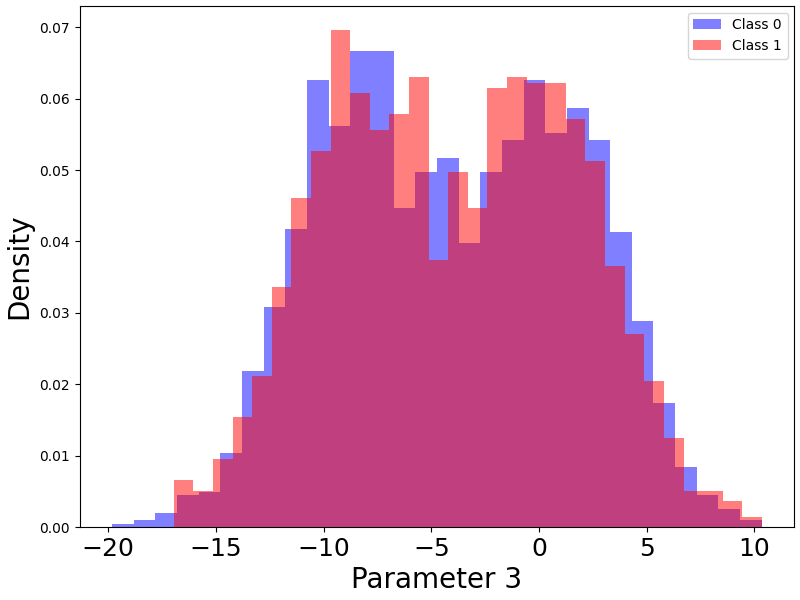
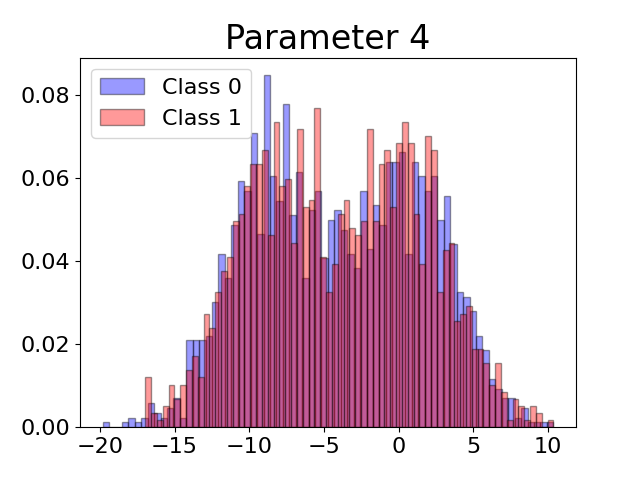
plots added, heatmap foreach class missing

diff --git a/Project/src/plottering.py b/Project/src/plottering.py
@@ -2,7 +2,6 @@ import numpy as np
 import input
 import seaborn as sns
 import matplotlib
-matplotlib.use('TkAgg')
 import matplotlib.pyplot as plt
 import matplotlib.gridspec as gridspec
 from model import PCA, LDA
@@ -28,20 +27,17 @@ def plot_simple():
         x_class0 = [x for x, c in zip(x_values, classes) if c == 0]
         x_class1 = [x for x, c in zip(x_values, classes) if c == 1]
 
-        plt.hist(x_class0, bins=50, color='blue', alpha=0.5, density=True, label='Class 0')
-        plt.hist(x_class1, bins=50, color='red', alpha=0.5, density=True, label='Class 1')
-
+        plt.hist(x_class0, bins=70, color='blue', alpha=0.4, density=True, label='Class 0', linewidth=1.0, edgecolor='black')
+        plt.hist(x_class1, bins=70, color='red', alpha=0.4, density=True, label='Class 1', linewidth=1.0, edgecolor='black')
         plt.legend(fontsize=16)
 
         plt.tick_params(axis='x', labelsize=16)
         plt.tick_params(axis='y', labelsize=16)
         plt.title(labels[i], fontsize=24)
     
-        plt.savefig('plot_{}.png'.format(i))
+        plt.savefig('../Plots/plot_{}.png'.format(i))
         plt.close()
 
-    
-    
 def plot_multiple():
     data = []
 
@@ -105,8 +101,23 @@ def plot_correlations(D, cmap="Greys",dimensions=10):
             pearson_coeff = compute_pearson_coeff(X, Y)
             corr[x][y] = pearson_coeff
     sns.set()
-    sns.heatmap(np.abs(corr), linewidth=0.2, cmap=cmap, square=True, cbar=False)
-    plt.show()
+    sns.heatmap(np.abs(corr), linewidth=0.2, cmap=cmap, square=True, cbar=True)
+    plt.savefig("../Plots/correlations")
+
+def plot_Scatter(DTR, LTR):
+    idx = 0
+    for i in range(DTR.shape[0]):
+        for j in range(DTR.shape[0]):
+            if i != j:
+                plt.figure()
+                plt.scatter(DTR[i, LTR == 0], DTR[j, LTR == 0], label="0")
+                plt.scatter(DTR[i, LTR == 1], DTR[j, LTR == 1], label="1")
+                plt.legend()
+                plt.xlabel("Feature " + str(i))
+                plt.ylabel("Feature " + str(j))
+                plt.savefig("../Plots/scatter_" + str(idx))
+                idx += 1
+                plt.close()
 
 def plot_PCA(D,L,m,s=16):
 
@@ -132,13 +143,14 @@ def plot_LDA(D,L):
     D_class0 = D[:, L == 0]
 
     plt.figure()
-    plt.hist(D_class1[0, :], bins=100, alpha=1, label='class 1')
-    plt.hist(D_class0[0, :], bins=100, alpha=0.5, label='class 0')
+    plt.hist(D_class1[0, :], bins=70, alpha=1, label='class 1', linewidth=1.0, edgecolor='black')
+    plt.hist(D_class0[0, :], bins=70, alpha=0.5, label='class 0', linewidth=1.0, edgecolor='black')
     plt.tick_params(axis='x', labelsize=16)
     plt.tick_params(axis='y', labelsize=16)
     plt.legend(fontsize=16)
-    plt.savefig('LDA.png')
+    plt.savefig('../Plots/LDA.png')
     plt.show()
+    plt.close()
 
 
 if __name__ == '__main__':

diff --git a/Project/src/main.py b/Project/src/main.py
@@ -1,6 +1,7 @@
 import model
 import input
 import evaluation
+import plottering
 import scipy as sp
 import numpy as np
 import threading
@@ -12,8 +13,19 @@ C_fa = 1
 def DCF(FN, FP):
     return P_target * C_fn * FN + (1 - P_target) * C_fa * FP
 
+#min DCF, PCA, plot
 def main(seed=1,K=5):
     D, L = input.load(input.traininput)
+
+    #plot
+    plottering.plot_simple()
+    plottering.plot_LDA(D,L)
+    plottering.plot_correlations(D)
+    plottering.plot_Scatter(D,L)
+    #train
+    #calibration
+    #evaluation
+
 
     # Create threads for each function
     threads = []
